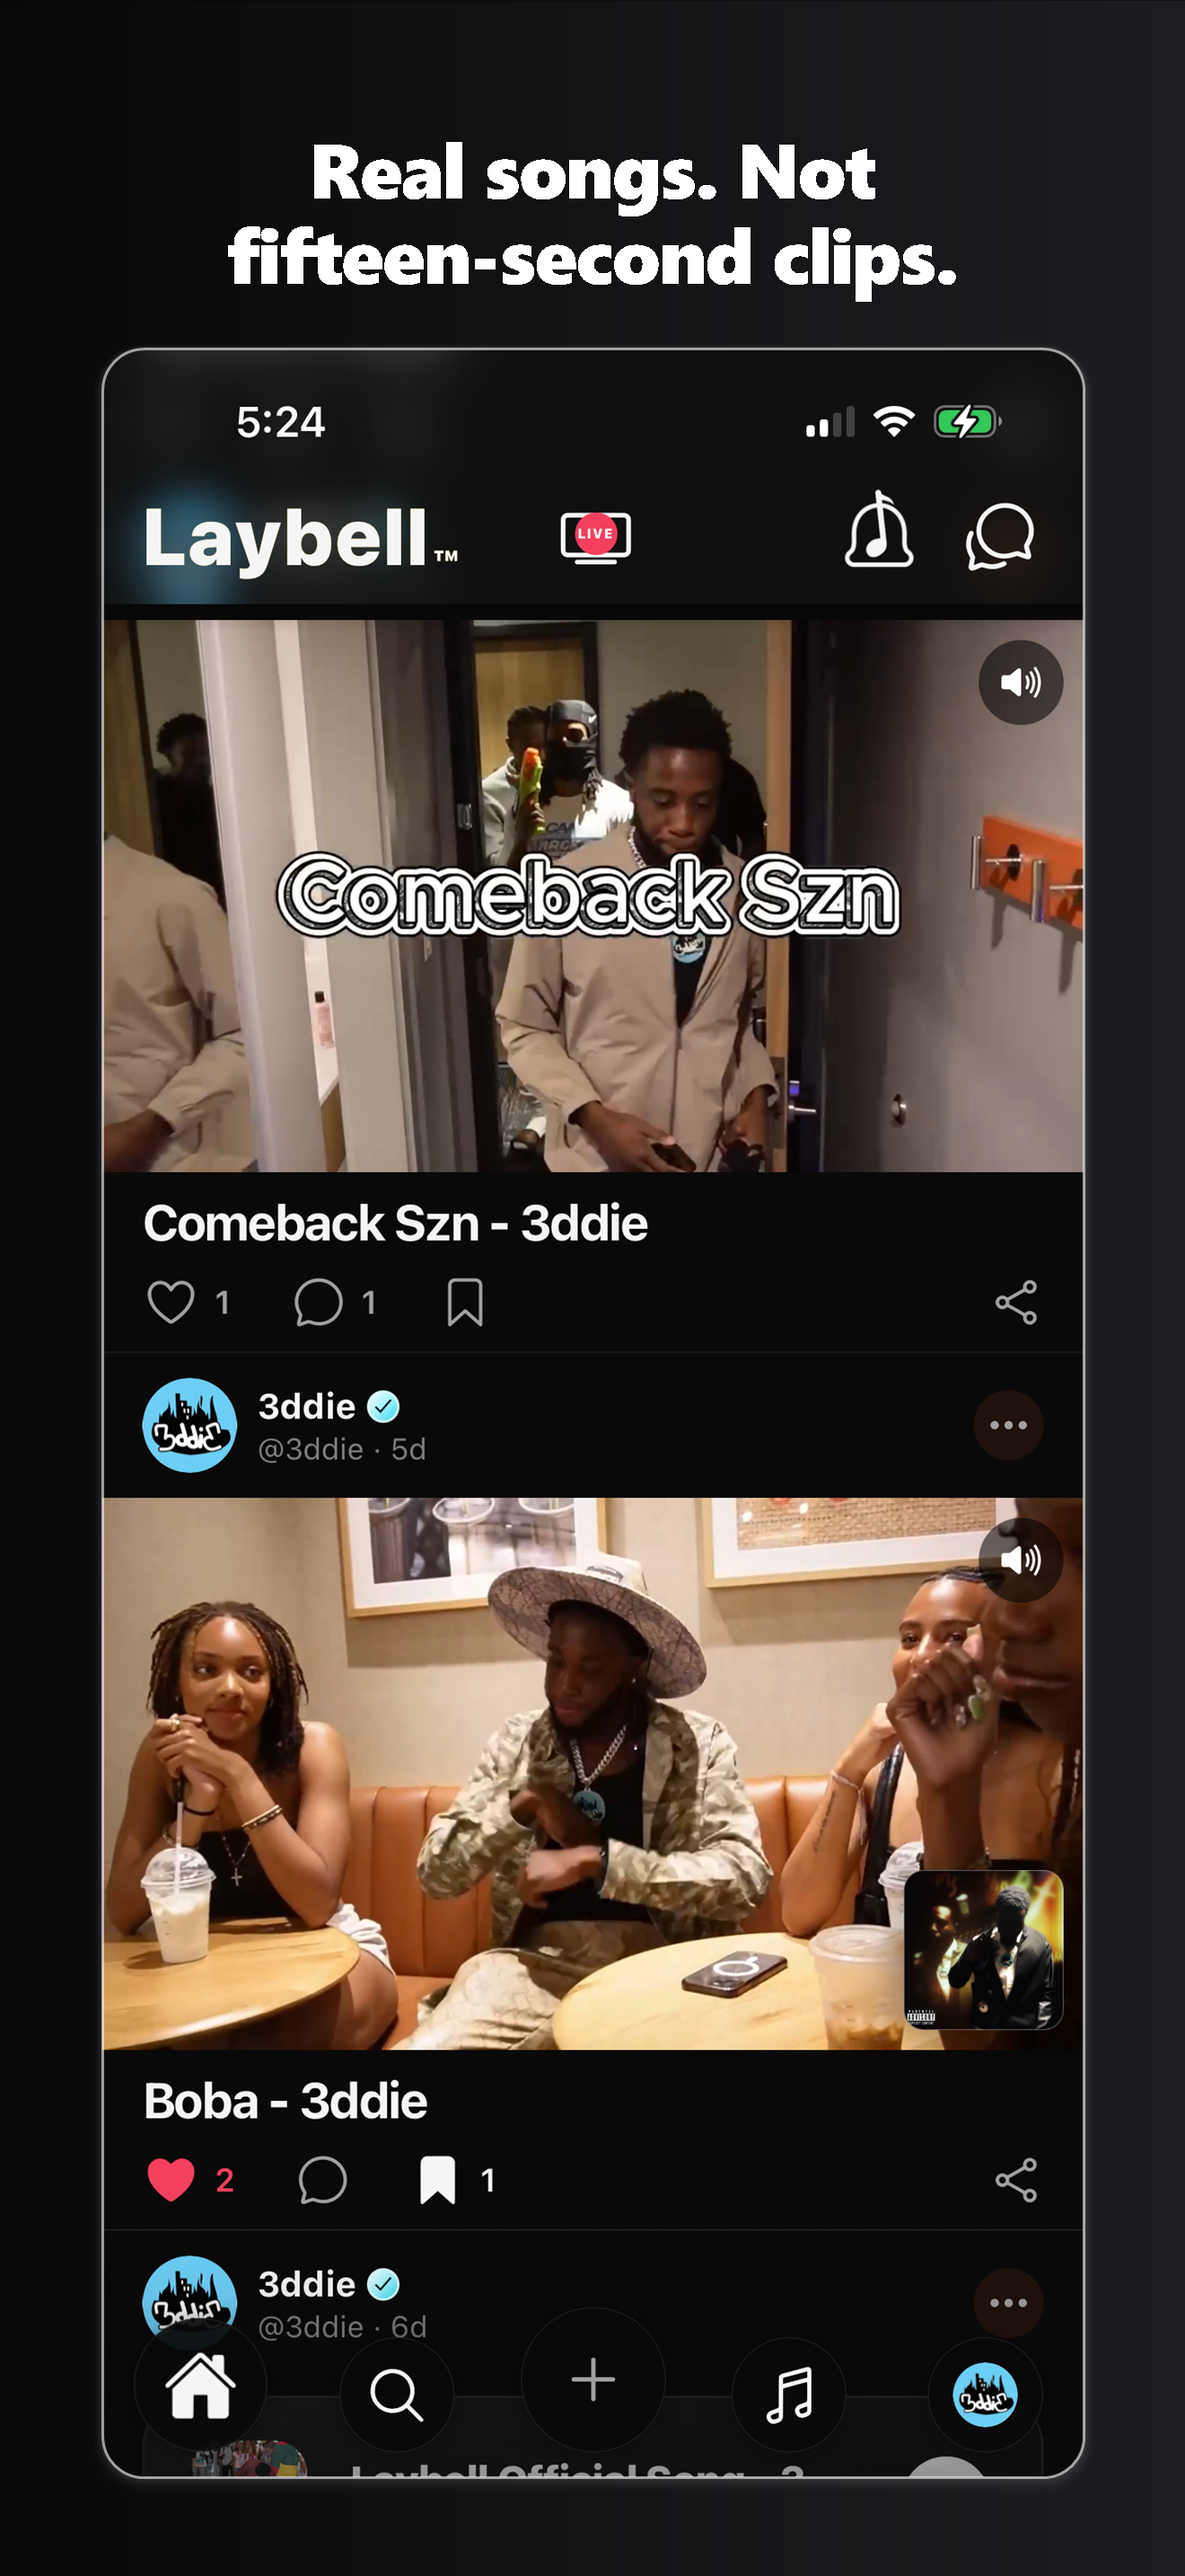
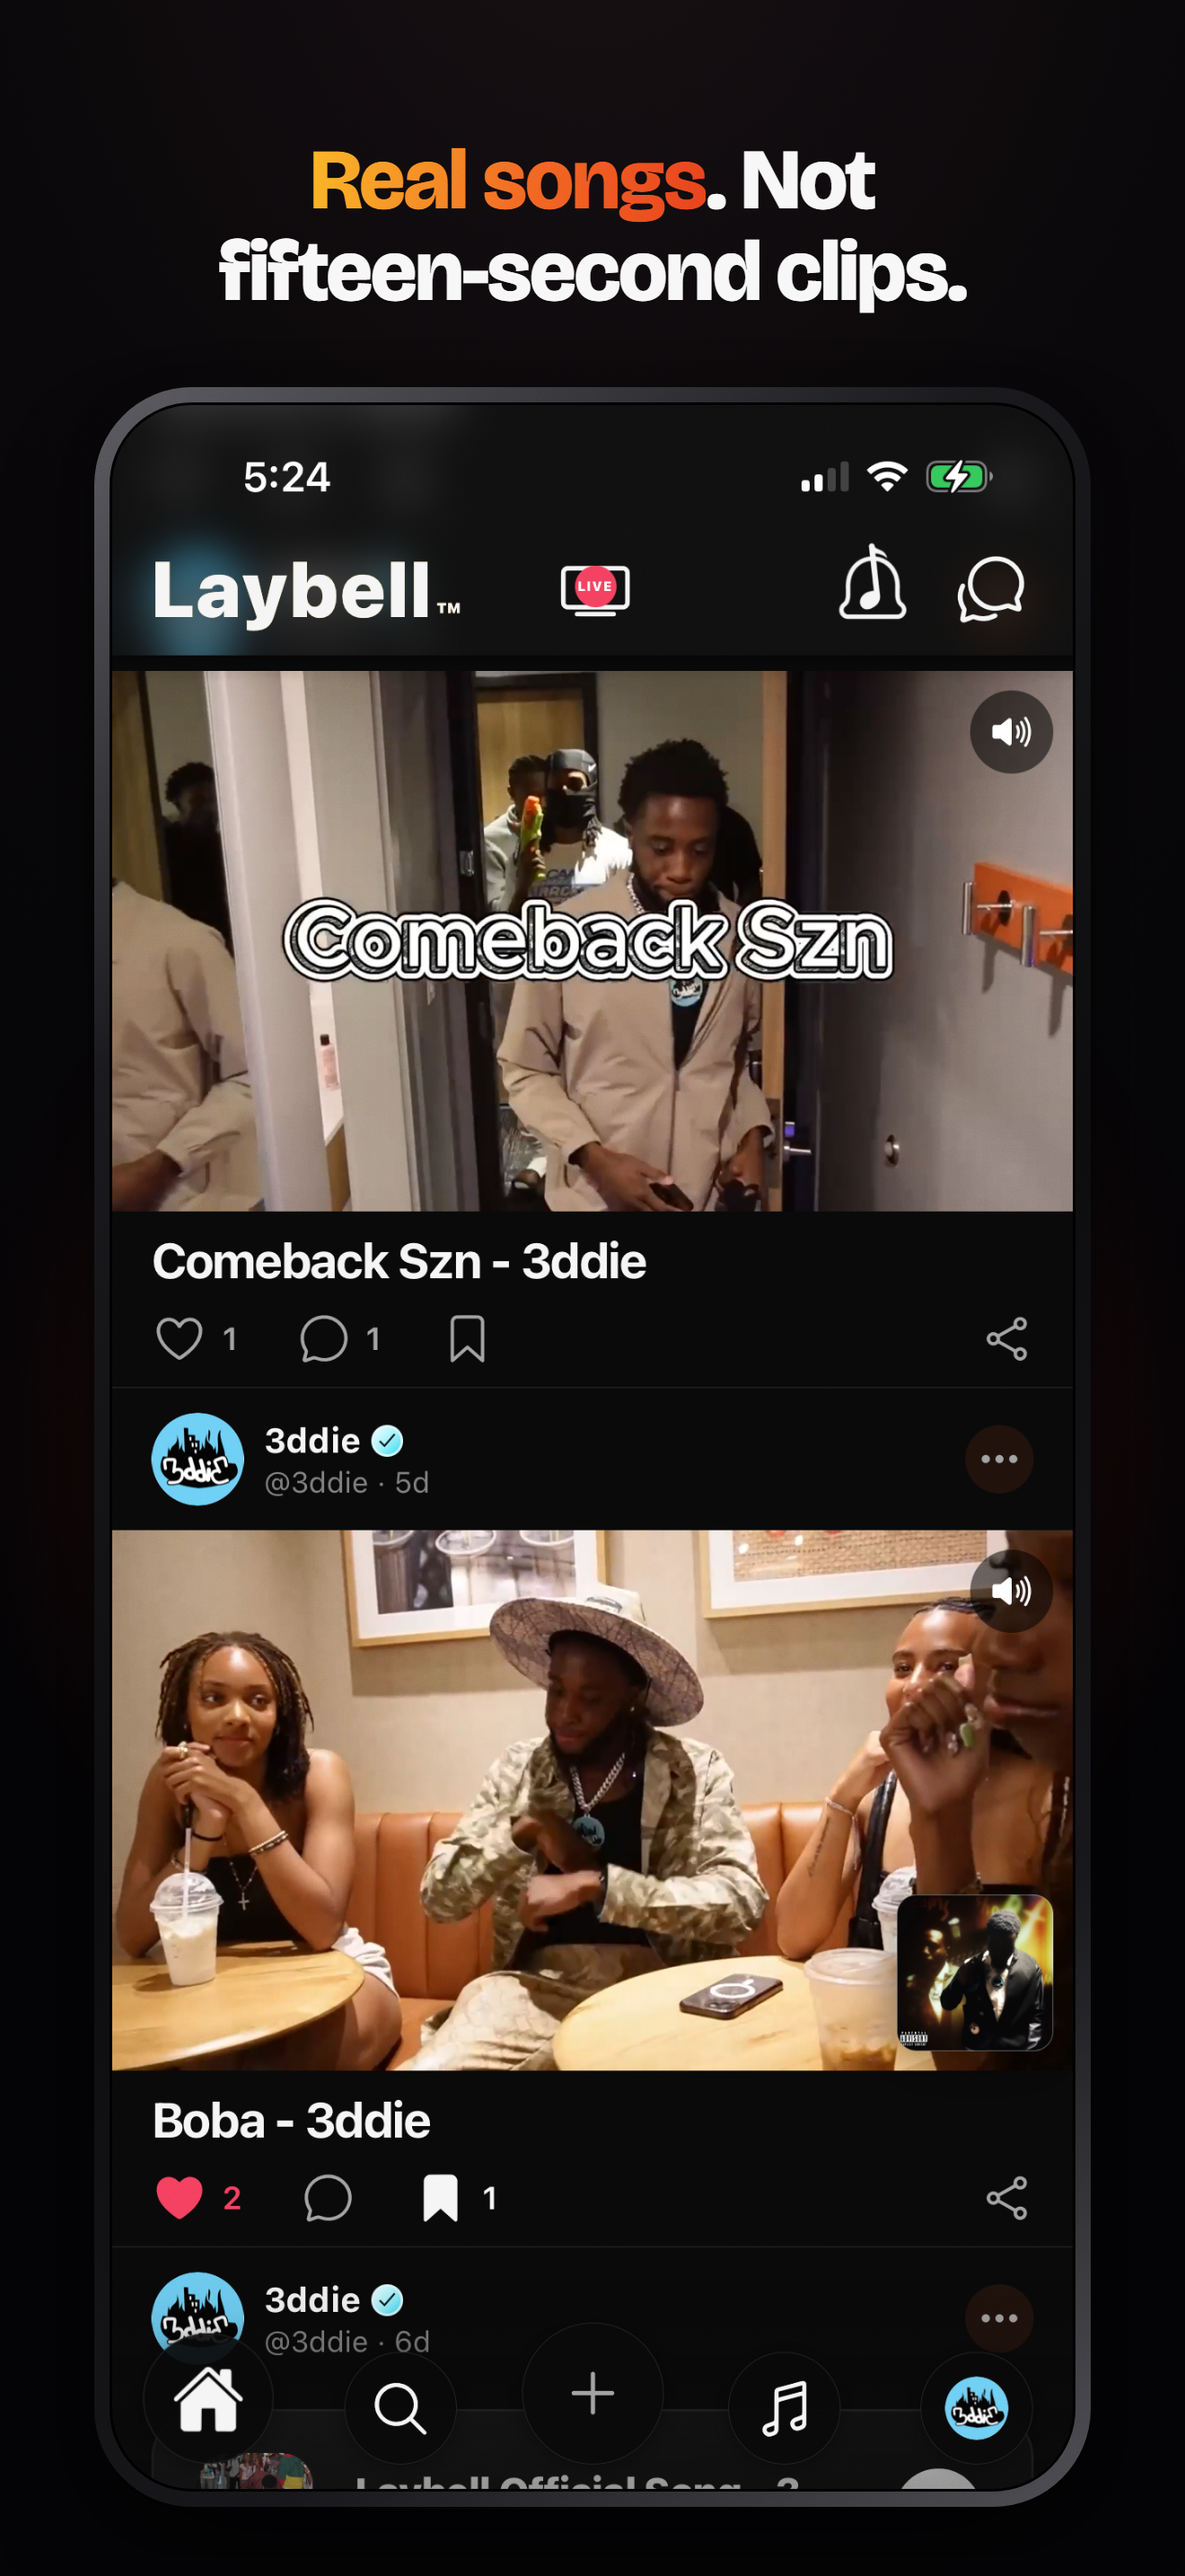
feat(store): premium "Midnight" screenshot redesign + Node renderer
Replace the GDI+ framing with scripts/make-screenshots.mjs (HTML -> headless
Chrome): titanium device bezel, Bricolage Grotesque display font, brand-gradient
glow, and a gradient accent on each caption's key phrase. Renders all three store
sizes and flattens alpha via the existing normaliser.

Regenerates the live set as 7 frames (profile, films, feed, player, live+tip,
wallet, album). The "Begging cat type beat" joke shop capture is dropped until a
real beat listing is captured; drop the old frame 08 from each size dir.

diff --git a/docs/STORE_SCREENSHOTS_1.0.1.md b/docs/STORE_SCREENSHOTS_1.0.1.md
@@ -1,3 +1,25 @@
+## 2026-10-28 — the "Midnight" redesign (current)
+
+The framing is now done by **`scripts/make-screenshots.mjs`** (HTML → headless
+Chrome), which supersedes the GDI+ `make-screenshots.ps1` for far more polish: a
+titanium device bezel, the Bricolage Grotesque display font, a soft brand-gradient
+glow, and a brand-gradient accent on each caption's key phrase. Same three output
+sizes, same no-alpha flatten at the end. Run it with `node scripts/make-screenshots.mjs`.
+
+`FRAMES` in that script is the source of truth for which captures ship, in what
+order, with what caption — paired by filename, so dropping/reordering one can't
+mislabel the rest. **The shop frame (`raw/06.png`) is intentionally omitted**: it is
+still the "Begging cat type beat" joke capture. Re-add its `FRAMES` entry once a real
+beat listing is captured (real art/title/price — same capture rules as below). The
+live set is therefore **7 frames** (profile, films, feed, player, live+tip, wallet,
+album). Films is kept for now despite goofy titles (it still proves the feature);
+owner to recapture real content for shop (and maybe films) later.
+
+Everything below is the 1.0.1 re-shoot history — the capture rules and per-frame
+reasoning still apply; only the framing engine and the frame list have changed.
+
+---
+
 # Store screenshots — the 1.0.1 re-shoot
 
 The framing pipeline is fine and stays: `scripts/make-screenshots.ps1` turns raw
